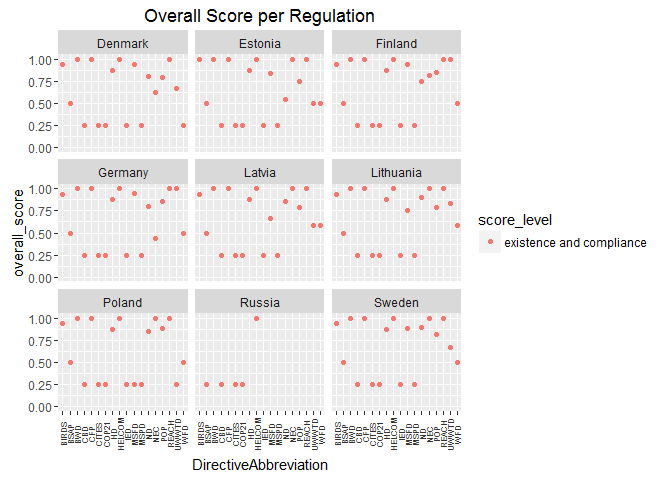
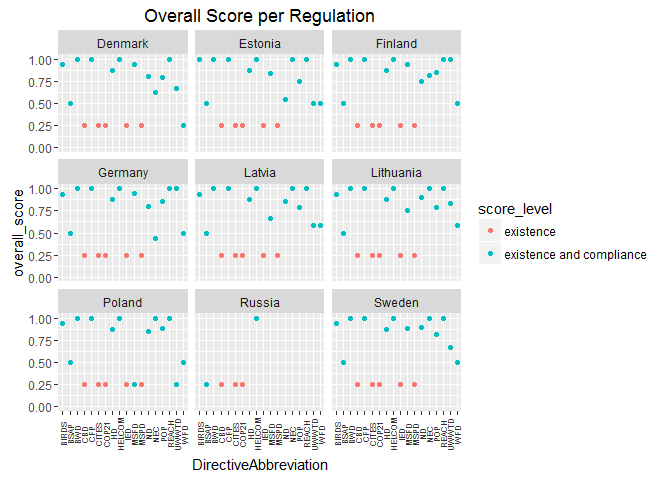
updated resilience_prep

diff --git a/baltic2015/prep/resilience/resilience_prep.md b/baltic2015/prep/resilience/resilience_prep.md
@@ -100,6 +100,8 @@ Two Baltic Region agreements will be assessed for *existence* and *compliance* f
 
 13 EU directives will be assessed for *existence* and *compliance* for BHI countries that are EU member states. These are: Water Framework Directive (WFD), Marine Spatial Planning Directive (MSPD), Marine Strategy Framework Directive (MSFD), Habitat Directive (HD), Common Fisheries Policy (CFP), National Emmissions Ceilings (NEC), Industrial Emissions Directive (IED), Urban Waste Water Treatment Directive (UWWTD), Bathing Water Directive (BWD), Conservation of Wild Birds (BIRDS), Registration, Evaluation, Authorisation and Restriction of Chemicals (REACH), Peristent Organic Pollutants (POP), Nitrates Directive (ND).
 
+*Note* IED and MSPD, while having compliance components can not currently have compliances assessed as the deadlines for compliance and reporting have only just recently occurred or have not occurred yet (are 2016 dates).
+
 ### 1.2.2 Scoring
 
 By country for each level assessed for each regulation
@@ -418,8 +420,8 @@ goal_spec_overall = full_join(goal_spec_exist, goal_spec_compli_mean,
 
 ## calculate overall score
 goal_spec_overall = goal_spec_overall %>%
-                    mutate(overall_score = total/max_score) %>% ## if compli_mean is not NA, the max total score is 4; if it is NA, then only existence assessend and max is 1
-                    mutate(score_level = ifelse(max_score == 1, "existence", "existence and compliance")) %>%
+                    mutate(overall_score = total/max_score) %>% 
+                    mutate(score_level = ifelse(DirectiveAbbreviation %in% c("IED","MSPD","CBD","CITES","COP21"), "existence", "existence and compliance")) %>% ## score level defined by directives scored only for existence or for both
   select(DirectiveAbbreviation, CountryName,overall_score, score_level)
 
 ## change Helcom to HELCOM
